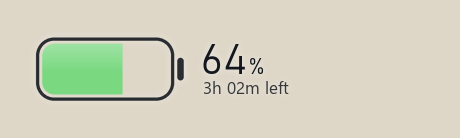
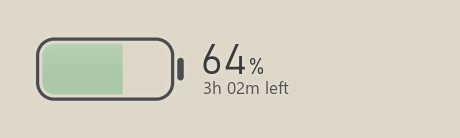
Subtler fill: muted colours, see-through fill, softer highlight and shimmer
The bright green stood out from the rest of the desktop. Screenshots and the
charging GIF re-rendered with the new look.

Changed region(s): [[0.0609, 0.2609, 0.5783, 0.7246], [0.4565, 0.6087, 0.6391, 0.6957]]

diff --git a/surface.py b/surface.py
@@ -41,12 +41,15 @@ HIT_ALPHA = 1
 BLEND = 0.82
 
 #: Fill colours.
+#: Fill colours: muted, so the pill sits with the rest of the desktop instead of glowing.
 COLOURS = {
-    "ok": (112, 216, 122),
-    "low": (242, 193, 78),
-    "critical": (234, 88, 76),
-    "charging": (96, 224, 140),
+    "ok": (122, 184, 136),
+    "low": (214, 178, 102),
+    "critical": (208, 106, 98),
+    "charging": (112, 196, 150),
 }
+#: How solid the fill is: the wallpaper shows through a little.
+FILL_ALPHA = 0.62
 
 INK = {
     #: outline / text colour, halo colour
@@ -181,7 +184,7 @@ def _gloss(width: int, height: int, unit: float) -> Image.Image:
     middle = top + (bottom - top) * 0.55
     for y in range(height):
         if top <= y < middle:
-            gloss.putpixel((0, y), int(70 * (1 - (y - top) / max(1.0, middle - top))))
+            gloss.putpixel((0, y), int(40 * (1 - (y - top) / max(1.0, middle - top))))
     return gloss.resize((width, height))
 
 
@@ -192,7 +195,7 @@ def _band(width: int, unit: float) -> Image.Image:
     band_w = max(4, int((right - left) * 0.42))
     band = Image.new("L", (band_w, 1), 0)
     for x in range(band_w):
-        band.putpixel((x, 0), int(150 * math.sin(math.pi * x / (band_w - 1)) ** 2))
+        band.putpixel((x, 0), int(100 * math.sin(math.pi * x / (band_w - 1)) ** 2))
     return band
 
 
@@ -303,7 +306,7 @@ def compose(frame: Frame) -> tuple[Image.Image, tuple[int, int, int, int]]:
         fill_alpha = ImageChops.multiply(_fill_mask(frame.width, frame.height, unit), cut)
         rgb = COLOURS["charging" if frame.charging else frame.colour]
         image = Image.alpha_composite(
-            image, _solid(size, rgb, _scaled(fill_alpha, 0.92 * frame.fill_opacity))
+            image, _solid(size, rgb, _scaled(fill_alpha, FILL_ALPHA * frame.fill_opacity))
         )
         image = Image.alpha_composite(
             image,
